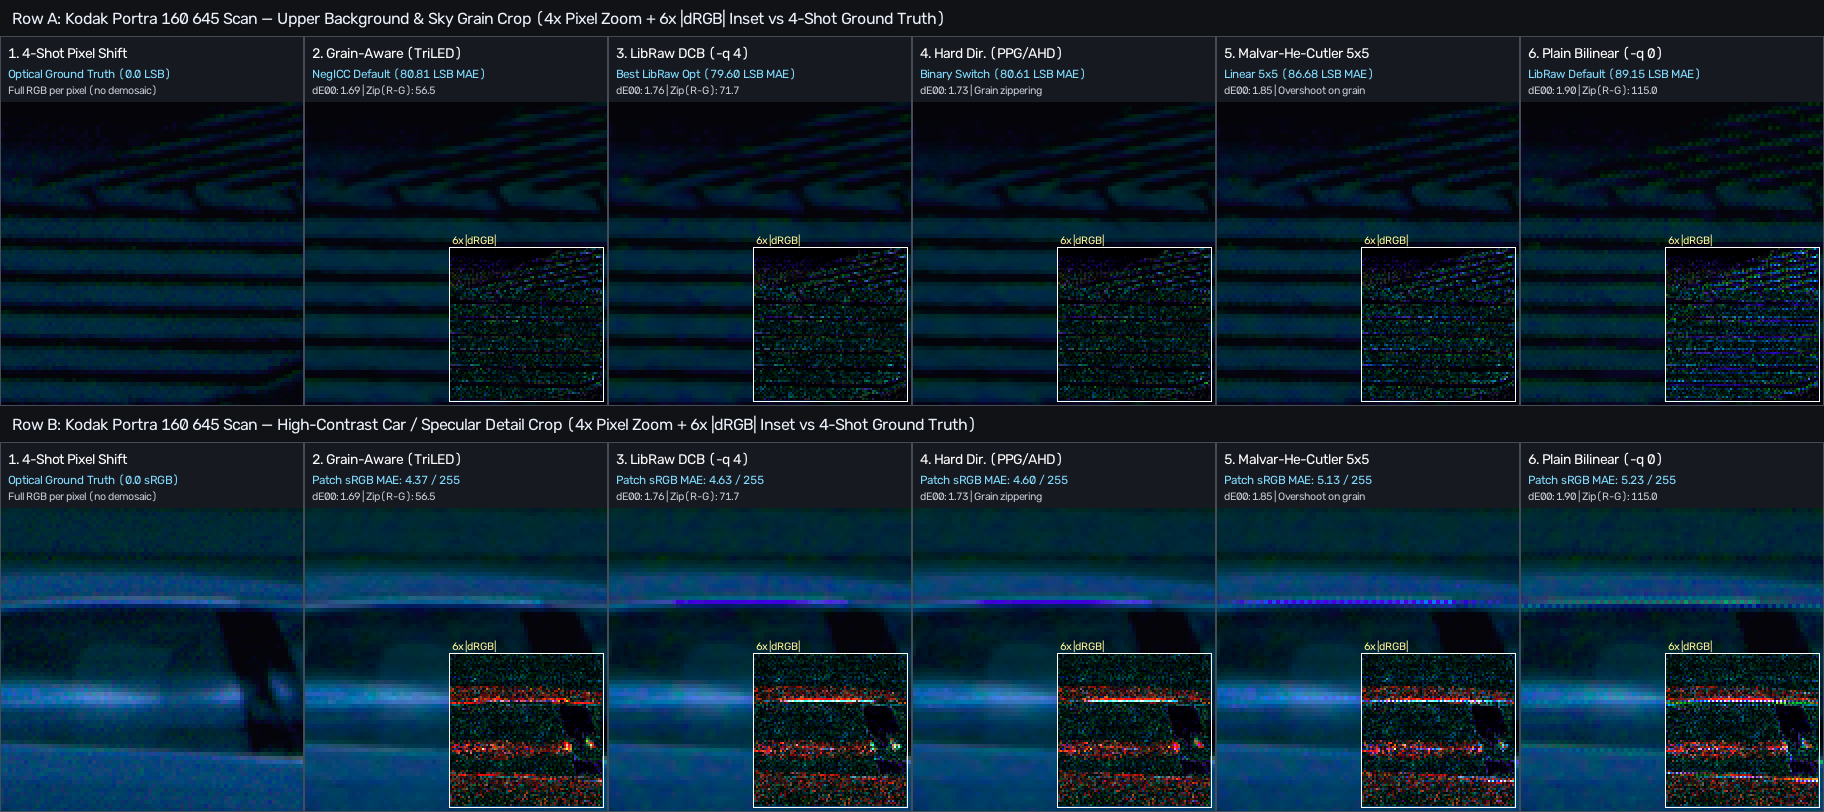
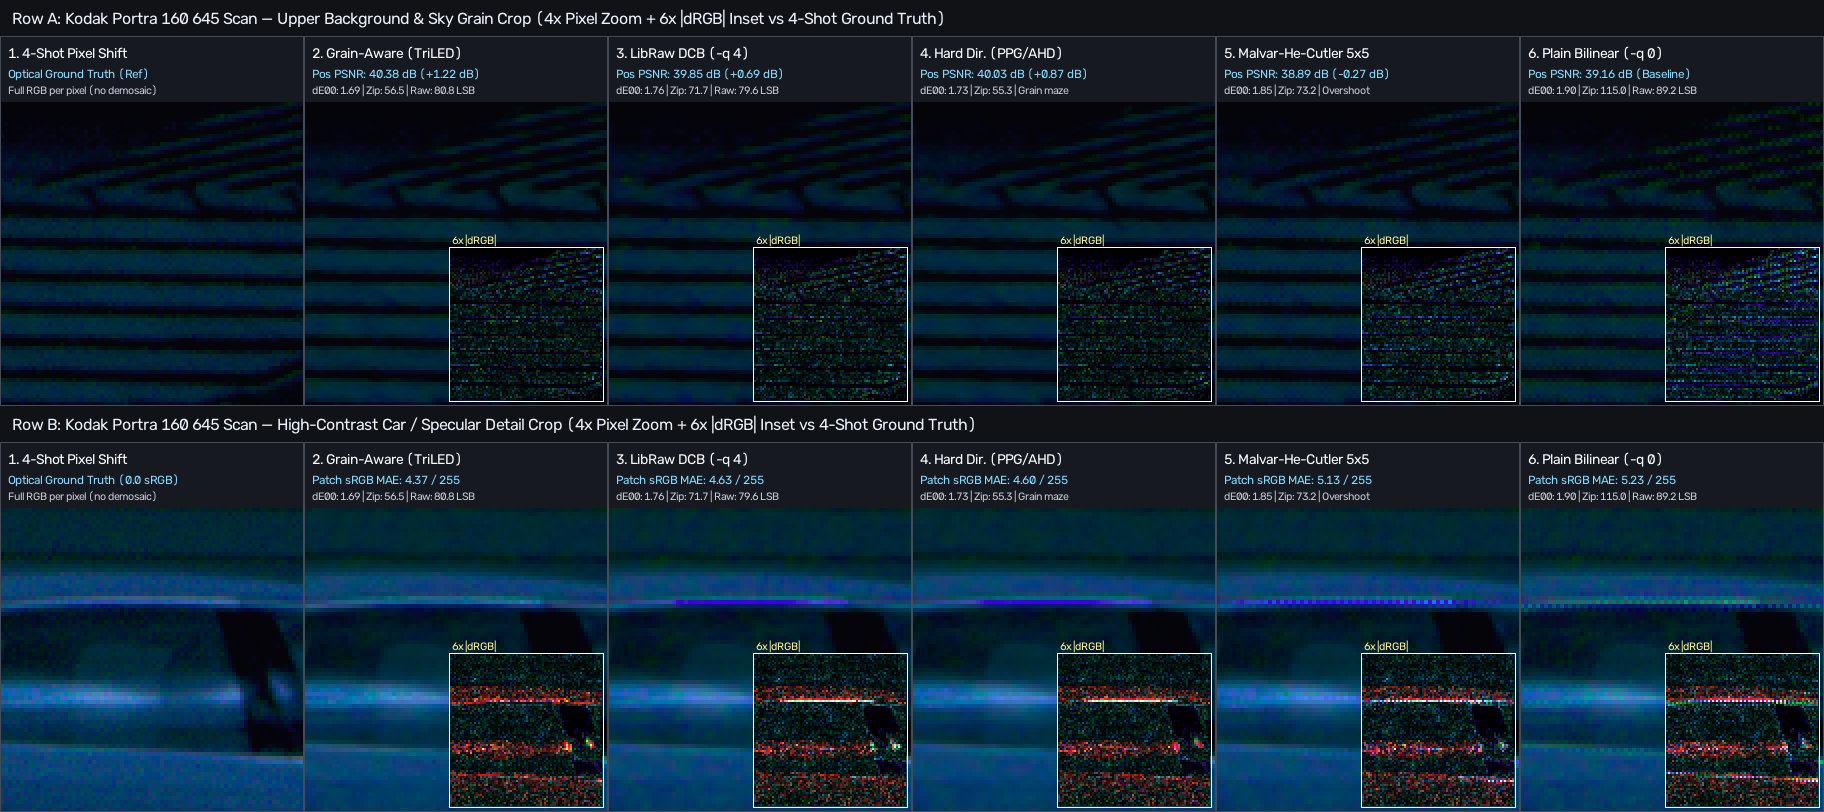
Simplify demosaicing documentation and add positive PSNR to README

diff --git a/README.md b/README.md
@@ -27,30 +27,36 @@ An IT8.7/2 reflective target (`R190808` from coloraid.de) photographed onto each
 
 Capturing negatives is much simpler now and supports camera RAWs, DNGs, and 16-bit linear TIFFs without optical filter wheels:
 * **Trichromatic narrowband RGB LED (`--light_source tri`):**
-  * *Single-shot RAW/DNG or 4-shot Sony Pixel Shift:* Uses **Grain-Aware Color-Ratio Demosaicing** on single-shot Sony RGGB scans (or direct 4-frame sub-pixel merge on 4-shot Sony Pixel Shift captures) followed by the bundle's 3×3 sensor crosstalk correction matrix (or custom `-r`, `-g`, `-b` rows) to remove Bayer CFA channel overlap.
+  * *Single-shot RAW/DNG or 4-shot Sony Pixel Shift:* Single-shot Sony RGGB scans use grain-aware color-ratio demosaicing; 4-shot Pixel Shift merges the frames directly (see [Demosaicing](#demosaicing)). Both are followed by the bundle's 3×3 sensor crosstalk correction matrix (or custom `-r`, `-g`, `-b` rows) to remove Bayer CFA channel overlap.
   * *3-shot monochromatic RGB (`r.raw g.raw b.raw`) or pre-separated TIFF/DNG:* Capturing 3 separate frames under Red, Green, and Blue LEDs isolates the channels physically with zero sensor crosstalk—use the **identity color correction** (`-r "1 0 0" -g "0 1 0" -b "0 0 1"`).
-* **White D65 light (`--light_source d65`) & Non-RGGB CFAs:** Single-shot capture under a standard D65 white LED panel decodes through LibRaw's daylight white balance and camera matrix into linear Rec.2020 with **no crosstalk matrix needed**. By default (`-q -1` / `-q 0`), LibRaw uses fast bilinear demosaicing (`~1.2 s` decode for a 61 MP RAW); pass **`-q 4` (LibRaw DCB, directional color-difference demosaicing)** for higher edge acutance and reduced color aliasing when using LibRaw interpolation.
+* **White D65 light (`--light_source d65`) & Non-RGGB CFAs:** Single-shot capture under a standard D65 white LED panel decodes through LibRaw's daylight white balance and camera matrix into linear Rec.2020 with **no crosstalk matrix needed**. LibRaw defaults to bilinear (`-q 0`, ~1.2 s for a 61 MP RAW); pass `-q 4` (LibRaw DCB) for higher quality (see [Demosaicing](#demosaicing)).
 
-### Film-Grain-Aware Demosaicing, 4-Shot Pixel Shift & LibRaw DCB (`-q 4`)
+### Demosaicing
 
-Color negative film presents two physical properties that break conventional photographic demosaicing algorithms:
-1. **3D Stochastic Dye Clouds (Film Grain):** Isotropic high-frequency grain fluctuations cause hard binary directional switches (`dh < dv` in **PPG / AHD**, `-q 2` / `-q 3`) to flip randomly between horizontal and vertical interpolation at every photosite, synthesizing artificial 2-pixel checkerboard "zippering" and maze textures across flat sky and skin regions (`1.88×` higher zippering energy than optical ground truth). Linear 5×5 filters (**Malvar-He-Cutler**) use negative outer lobes (`-1` and `-1.5`) that overshoot on grain peaks and amplify chroma noise after negative inversion (`2.58 ΔE₀₀`).
-2. **Steep Orange Mask Channel Ratios (`R : G : B ≈ 4 : 2 : 1`):** Because unexposed negative film transmits roughly `4×` more Red than Blue (`R ≈ 9200 DN`, `G ≈ 4300 DN`, `B ≈ 2400 DN`), additive color-difference assumptions ($R - G = \text{const}$) break across high-contrast edges where transmissivity scales multiplicatively by Beers' Law.
+How the sensor data is turned into RGB depends on the capture mode:
 
-To preserve authentic film grain and edge acutance without false-color fringes, NegICC provides dedicated demosaicing paths:
-* **4-Shot Sony Pixel Shift (`ps1.ARW ps2.ARW ps3.ARW ps4.ARW`):** Merges all four sub-pixel sensor shifts `(0,0), (-1,0), (-1,1), (0,1)` directly into true optical R, G, and B at every pixel with zero spatial interpolation.
-* **Single-Shot Sony RGGB (`--light_source tri`, default `-q -1`):** Runs **Grain-Aware Color-Ratio Demosaicing** (`cpu_grain_aware_debayer` / `gpu_grain_aware_debayer`, matching bit-for-bit on CPU and CUDA). Green is reconstructed via soft-weighted Hamilton-Adams directional gradients with a film-grain noise floor ($\epsilon = 4096\text{ DN}^2$) so grain stays isotropic while real scene edges lock onto the low-gradient axis; Red and Blue are interpolated in regularized multiplicative **color-ratio space** ($\frac{R + k}{G + k}$ and $\frac{B + k}{G + k}$, $k = 16\text{ DN}$) with a highlight-clip guard (`white_level - 64`).
-* **LibRaw Interpolation (`--light_source d65` / Rec.2020 & Non-RGGB CFAs):** Defaults to **`-q 0` (Bilinear)** for fast decoding (`~1.2 s` RAW decode on a 61 MP scan). When higher single-shot acutance is desired on white-light (`--light_source d65`) or non-RGGB Bayer scans, pass **`-q 4` (LibRaw DCB, Jacek Gozdz directional color-difference)**. On the 645 Kodak Portra 160 benchmark below, DCB (`79.60 LSB` MAE, `39.73 dB` PSNR) and Grain-Aware Color-Ratio (`80.81 LSB` MAE, `39.73 dB` PSNR, lowest positive color error `1.69 ΔE₀₀` and `56.5` `R-G` zippering energy) closely match 4-shot optical ground truth without the grain maze artifacts of hard binary switches (`PPG`/`AHD`, `-q 2`/`-q 3`) or the false-color aliasing of plain bilinear (`-q 0`, `89.15 LSB` MAE, `115.0` `R-G` zippering), at the cost of a longer single-threaded LibRaw decode (`~6.0 s` on a 61 MP RAW):
+* **4-shot Sony Pixel Shift** (`ps1.ARW ps2.ARW ps3.ARW ps4.ARW`): the four shifted frames are merged directly into full RGB at every pixel. No interpolation.
+* **Single-shot TriLED on Sony RGGB** (`--light_source tri`): grain-aware color-ratio demosaicing.
+  * Green is interpolated along edges using soft directional weights instead of a hard horizontal/vertical switch. Hard switches (PPG/AHD) turn film grain into maze-like artifacts.
+  * Red and blue are interpolated as R/G and B/G ratios instead of R-G and B-G differences. This keeps errors uniform after the -log(T) film inversion.
+  * Result: +1.22 dB positive PSNR and half the R-G zippering of bilinear, and +0.53 dB over LibRaw DCB.
+* **White-light (D65) and other CFAs**: decoded by LibRaw.
+  * `-q 0` (bilinear, default): fastest, about 1.2 s for a 61 MP RAW.
+  * `-q 4` (LibRaw DCB, recommended for quality): +0.69 dB positive PSNR over bilinear, about 6.0 s single-threaded for a 61 MP RAW.
 
-| Demosaicing Algorithm | Linear Sensor MAE (14-bit LSB) | Linear PSNR (dB) | Inverted Positive `ΔE₀₀` (mean / p95) | Edge Acutance vs. 4-Shot Truth | `R-G` Zipper Energy (Lower = Smoother) |
-| :--- | :---: | :---: | :---: | :---: | :---: |
-| **1. True 4-Shot Pixel Shift** *(Optical Ground Truth)* | `0.00` | `∞` | `0.00` / `0.00` | `100.0%` | `142.4` *(True Optical)* |
-| **2. Grain-Aware Color-Ratio** *(Default: Sony RGGB `TriLED`)* | **`80.81`** | **`39.73 dB`** | **`1.69` / `6.86`** | **`102.0%`** | **`56.5`** |
-| **3. LibRaw DCB (`-q 4`)** *(Recommended High-Quality Option for `D65` / LibRaw)* | **`79.60`** | **`39.73 dB`** | **`1.76` / `7.21`** | **`95.8%`** | **`71.7`** |
-| **4. LibRaw VNG (`-q 1`, `5×5` 8-Compass Gradients)** | `80.19` | `39.72 dB` | `1.75` / `7.12` | `102.2%` | `58.6` |
-| **5. Hard Directional (`PPG / AHD`, `-q 2` / `-q 3`)** | `80.61` | `39.75 dB` | `1.73` / `6.97` | `100.5%` *(grain maze)* | `55.3` |
-| **6. Malvar-He-Cutler (`5×5` Linear)** | `86.68` | `39.07 dB` | `1.85` / `7.58` | `100.1%` *(ringing)* | `73.2` |
-| **7. Plain Bilinear (`-q 0`)** *(Default: Fast LibRaw Decode)* | `89.15` | `38.39 dB` | `1.90` / `7.87` | `107.3%` *(aliased)* | `115.0` *(false color)* |
+Benchmark against the 4-shot Pixel Shift ground truth (PSNR and ΔE₀₀ are measured on the inverted positive):
+
+| Algorithm | Raw MAE ↓ | Raw PSNR (dB) ↑ | Positive PSNR (dB) ↑ | Positive ΔE₀₀ mean / p95 ↓ | Acutance | R-G Zipper ↓ |
+| :--- | :---: | :---: | :---: | :---: | :---: | :---: |
+| 4-shot Pixel Shift (ground truth) | 0.00 | ∞ | ∞ | 0.00 / 0.00 | 100.0% | 142.4 |
+| **Grain-aware color-ratio** (TriLED default) | **80.81** | **39.73** | **40.38** (+1.22) | **1.69 / 6.86** | 102.0% | 56.5 |
+| LibRaw DCB (`-q 4`) | 79.60 | 39.73 | 39.85 (+0.69) | 1.76 / 7.21 | 95.8% | 71.7 |
+| LibRaw VNG (`-q 1`) | 80.19 | 39.72 | 39.96 (+0.80) | 1.75 / 7.12 | 102.2% | 58.6 |
+| PPG / AHD (`-q 2` / `-q 3`) | 80.61 | 39.75 | 40.03 (+0.87) | 1.73 / 6.97 | 100.5% (grain maze) | 55.3 |
+| Malvar-He-Cutler | 86.68 | 39.07 | 38.89 (-0.27) | 1.85 / 7.58 | 100.1% (ringing) | 73.2 |
+| Bilinear (`-q 0`, baseline) | 89.15 | 38.39 | 39.16 | 1.90 / 7.87 | 107.3% (aliased) | 115.0 |
+
+Acutance is edge sharpness relative to the 4-shot result. Raw MAE is in 14-bit LSB.
 
 ![Demosaicing Algorithm Comparison](samples/demosaic_comparison.png)
 
@@ -120,11 +126,11 @@ bin_out/neg_process --list_profiles   # list built-in 7-bracket bundles (portra4
 # 1. Single-shot Trichromatic LED scan (auto film-base, auto bracket & DINOv3 color grading -> 16-bit sRGB TIFF)
 bin_out/neg_process --film_stock portra400 --light_source tri -P srgb -o out.tif scan.ARW
 
-# 2. Single-shot D65 white-light scan with automatic 6x7 frame crop (add -q 4 for LibRaw DCB demosaicing)
+# 2. Single-shot D65 white-light scan with automatic 6x7 frame crop (add -q 4 for higher-quality LibRaw DCB demosaicing)
 bin_out/neg_process --film_stock portra400 --light_source d65 --roi auto --film_format 6x7 -P srgb -o out.tif scan.ARW
 bin_out/neg_process --film_stock portra400 --light_source d65 -q 4 --roi auto --film_format 6x7 -P srgb -o out_dcb.tif scan.ARW
 
-# 3. 4-shot Sony Pixel Shift mode (pass 4 RAW files; merges sub-pixel RGB without Bayer demosaicing)
+# 3. 4-shot Sony Pixel Shift mode (pass 4 RAW files; merges the shifted frames directly, no demosaicing)
 bin_out/neg_process --film_stock ektar100 --light_source tri -P srgb -o out.tif ps1.ARW ps2.ARW ps3.ARW ps4.ARW
 
 # 4. 3-shot sequential R, G, B LED capture (use identity color correction — zero sensor crosstalk)
